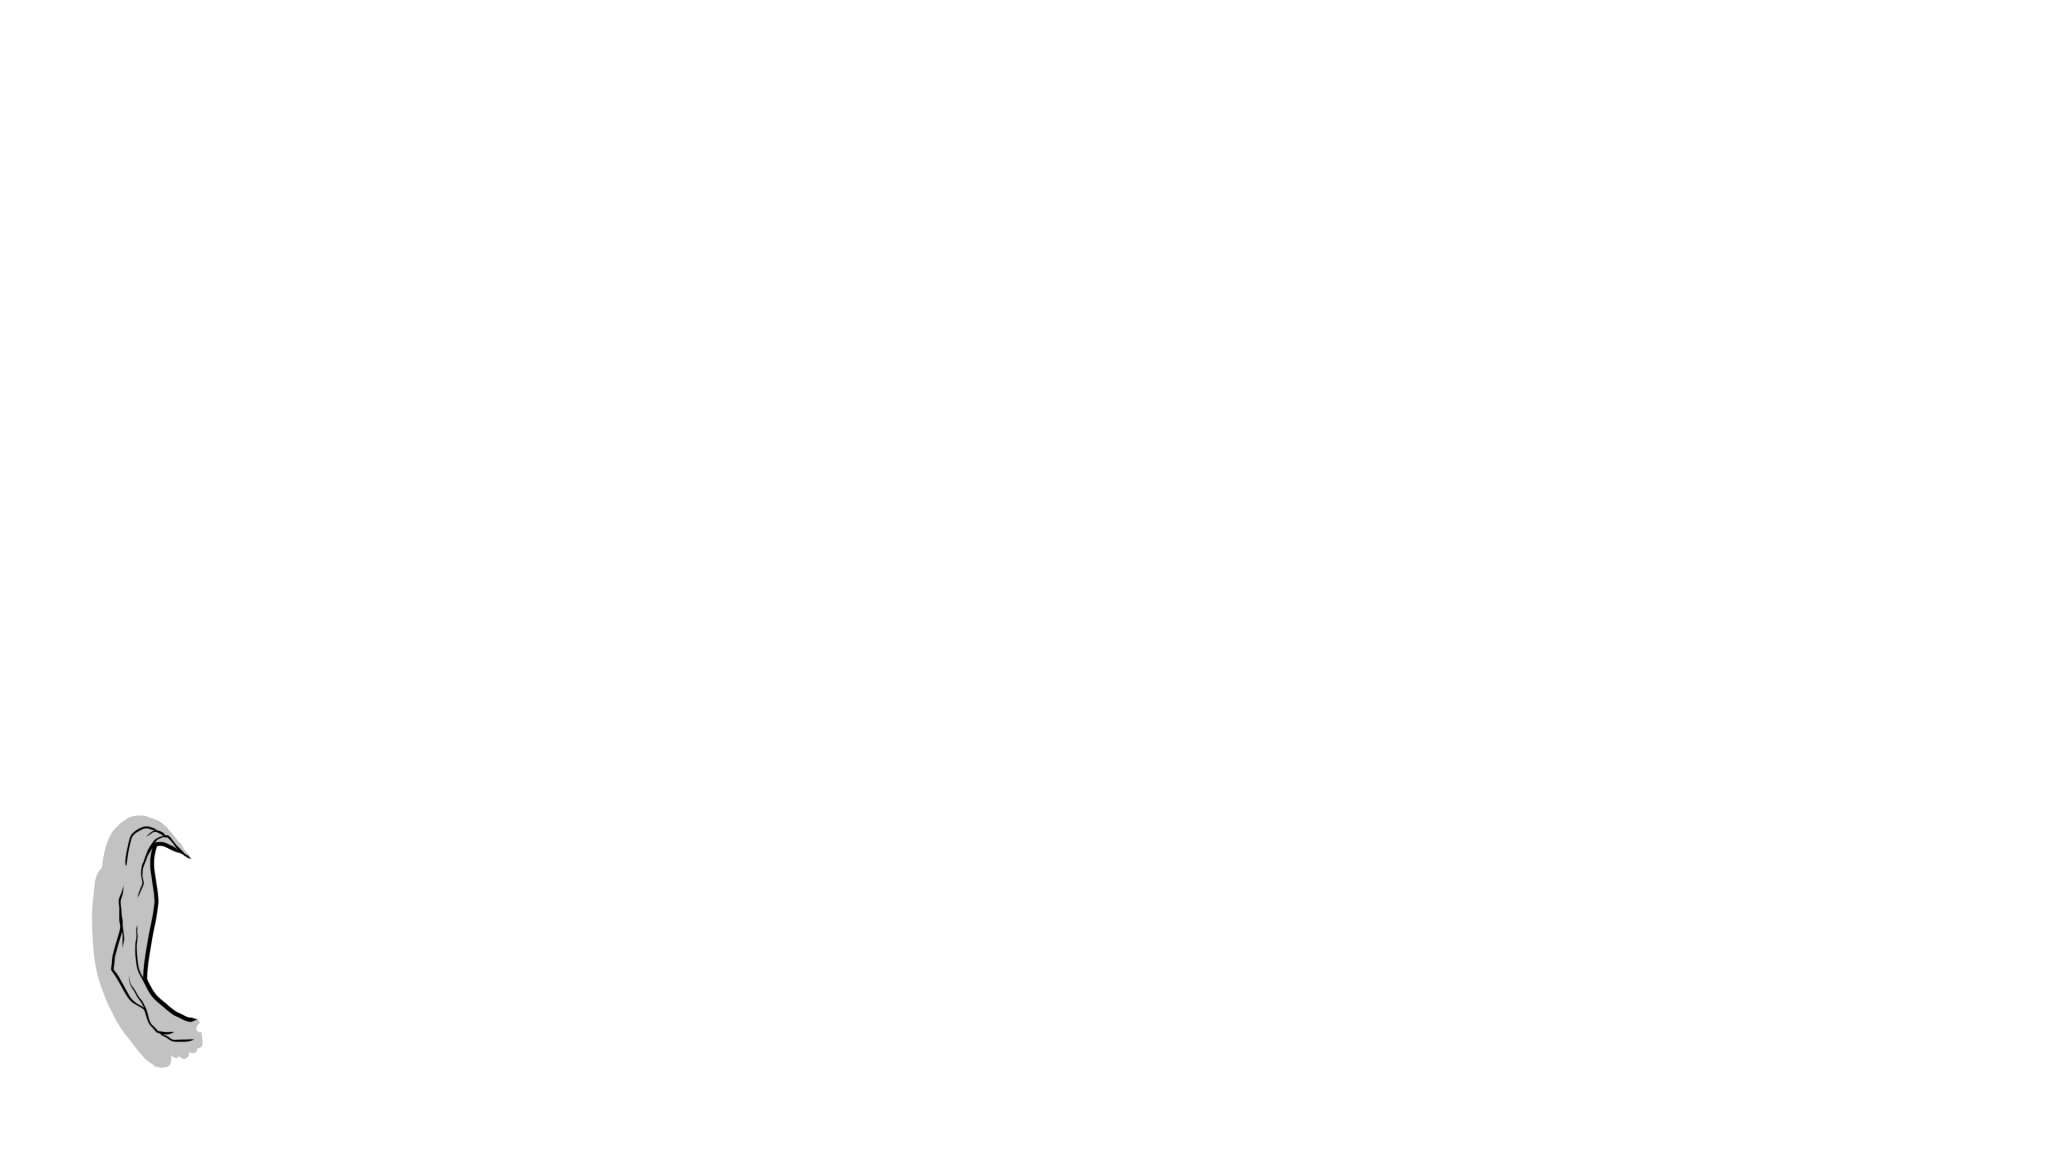
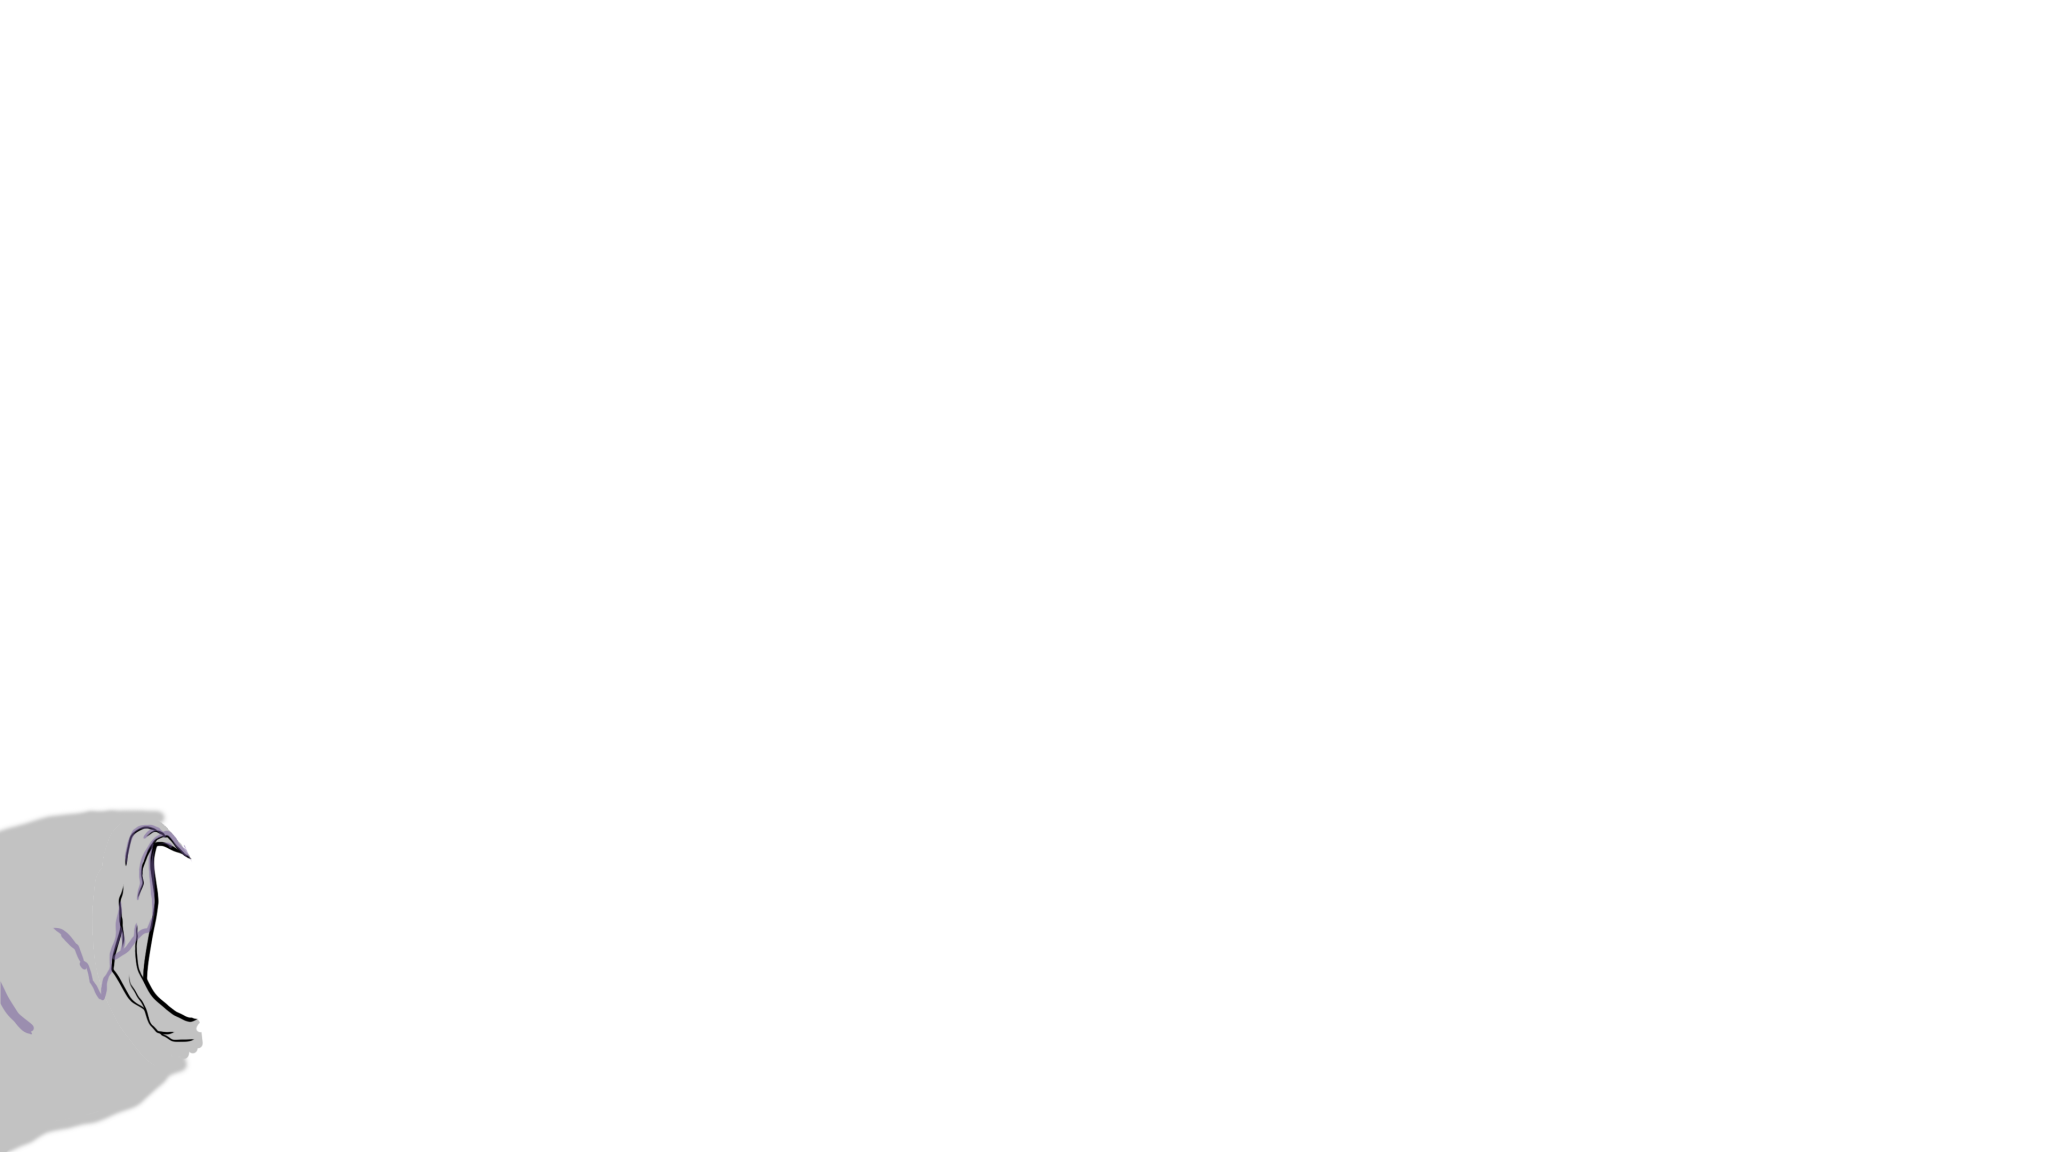
add animated eel

Changed region(s): [[0.0, 0.6875, 0.0938, 1.0]]

diff --git a/src/main.js b/src/main.js
@@ -41,6 +41,48 @@ const globalConfig = {
 	cameraFar: 40,
 }
 
+const eelImageSrc = [
+	require(`./eel/eel_1.png`),
+	require(`./eel/eel_2.png`),
+	require(`./eel/eel_3.png`),
+	require(`./eel/eel_4.png`),
+	require(`./eel/eel_5.png`),
+	require(`./eel/eel_6.png`),
+	require(`./eel/eel_7.png`),
+	require(`./eel/eel_8.png`),
+	require(`./eel/eel_9.png`),
+	require(`./eel/eel_10.png`),
+	require(`./eel/eel_11.png`),
+	require(`./eel/eel_12.png`),
+	require(`./eel/eel_13.png`),
+	require(`./eel/eel_14.png`),
+	require(`./eel/eel_15.png`),
+	require(`./eel/eel_16.png`),
+	require(`./eel/eel_17.png`),
+	require(`./eel/eel_18.png`),
+	require(`./eel/eel_19.png`),
+	require(`./eel/eel_20.png`),
+];
+
+const eelImages = new Array(20);
+for (let index = 0; index < eelImages.length; index++) {
+	eelImages[index] = new Image();
+	/*eelImages[index].addEventListener('load', ()=>{
+		if (eelCanvas.height < eelImages[index].height) eelCanvas.height = Math.max(eelCanvas.height, eelImages[index].height);
+		if (eelCanvas.width < eelImages[index].width) eelCanvas.width = Math.max(eelCanvas.width, eelImages[index].width);
+	});*/
+	eelImages[index].src = eelImageSrc[index];
+}
+const eelCanvas = document.createElement('canvas');
+eelCanvas.height = 500;
+eelCanvas.width = 1500;
+const eelCtx = eelCanvas.getContext('2d');
+const eelFPS = 12;
+let lastEelFrame = Date.now();
+let currentEelFrame = 0;
+const eelTexture = new THREE.CanvasTexture(eelCanvas);
+globalConfig.eelTexture = eelTexture;
+
 const plane_geometry = new THREE.PlaneBufferGeometry(globalConfig.emoteScale, globalConfig.emoteScale);
 
 const fragmentShader = require('./fragmentShader.js');
@@ -106,7 +148,7 @@ window.addEventListener('DOMContentLoaded', () => {
 	updateBubbleTemplate();
 
 	const createBubble = () => {
-		if (Math.random() > 0.9 || bt.spawns > 12) {
+		if (Math.random() > 0.5 || bt.spawns > 48) {
 			updateBubbleTemplate();
 		}
 		const bubble = new THREE.Mesh(bubble_geometry, bubble_material);
@@ -164,6 +206,19 @@ window.addEventListener('DOMContentLoaded', () => {
 	let lastFrame = Date.now();
 	function draw() {
 		requestAnimationFrame(draw);
+
+		const eelTimeDiff = Date.now() - lastEelFrame;
+		if (eelTimeDiff > 1000/eelFPS) {
+			lastEelFrame = Date.now();
+			currentEelFrame += Math.floor(eelTimeDiff/(1000/eelFPS));
+			if (currentEelFrame >= eelImages.length) {
+				currentEelFrame -= eelImages.length;
+			}
+			
+			eelCtx.clearRect(0, 0, eelCanvas.width, eelCanvas.height);
+			eelCtx.drawImage(eelImages[currentEelFrame], 0, 0);
+			eelTexture.needsUpdate = true;
+		}
 
 		for (const key in emoteTextures) {
 			if (emoteTextures.hasOwnProperty(key)) {

diff --git a/src/environment.js b/src/environment.js
@@ -16,7 +16,10 @@ const newPlaneImage = (url, options = {}) => {
 	}, options);
 	const mesh = new THREE.Mesh(
 		planeGeometry,
-		new THREE.MeshBasicMaterial({
+		(typeof url !== "string") ? new THREE.MeshBasicMaterial({
+			map: url,
+			transparent: true,
+		}) : new THREE.MeshBasicMaterial({
 			map: new THREE.TextureLoader().load(url),
 			transparent: true,
 		})
@@ -32,7 +35,7 @@ const newPlaneImage = (url, options = {}) => {
 
 module.exports = (scene, globalConfig) => {
 	scene.background = new THREE.Color(0x167BFF);
-	scene.fog = new THREE.Fog(0x167BFF, globalConfig.cameraDistance / 4, globalConfig.cameraDistance*1.25);
+	scene.fog = new THREE.Fog(0x167BFF, globalConfig.cameraDistance / 4, globalConfig.cameraDistance * 1.25);
 
 
 	const ambiLight = new THREE.AmbientLight(0x222222);
@@ -61,35 +64,54 @@ module.exports = (scene, globalConfig) => {
 		zpos: 27,
 		scale: 11.2,
 	});
-	layer1.position.z -= (layerOffset*0);
+	layer1.position.z -= (layerOffset * 0);
 	scene.add(layer1);
-	
-	const layer2 = newPlaneImage(layerimages[1], {
-		zpos: 19,
-		scale: 22.45,
-	});
-	layer2.position.z -= (layerOffset*1);
-	scene.add(layer2);
-	
+
 	const layer3 = newPlaneImage(layerimages[2], {
 		zpos: 19,
 		scale: 22.45,
 	});
-	layer3.position.z -= (layerOffset*2);
+	layer3.position.z -= (layerOffset * 1);
 	scene.add(layer3);
-	
+
+	const eelTextureMax = Math.max(
+		globalConfig.eelTexture.image.width,
+		globalConfig.eelTexture.image.height
+	)
+	const eelLayer = new THREE.Mesh(
+		new THREE.PlaneBufferGeometry(globalConfig.eelTexture.image.width / eelTextureMax, globalConfig.eelTexture.image.height / eelTextureMax),
+		new THREE.MeshBasicMaterial({
+			map: globalConfig.eelTexture,
+			transparent: true,
+		})
+	)
+	eelLayer.scale.x = 10;
+	eelLayer.scale.y = 10;
+	eelLayer.position.x = -14;
+	eelLayer.position.y = -7.25;
+	eelLayer.position.z = 19;
+	eelLayer.position.z -= (layerOffset * 2);
+	scene.add(eelLayer);
+
+	const layer2 = newPlaneImage(layerimages[1], {
+		zpos: 19,
+		scale: 22.45,
+	});
+	layer2.position.z -= (layerOffset * 3);
+	scene.add(layer2);
+
 	const layer4 = newPlaneImage(layerimages[3], {
 		zpos: 19,
 		scale: 22.45,
 	});
-	layer4.position.z -= (layerOffset*3);
+	layer4.position.z -= (layerOffset * 4);
 	scene.add(layer4);
-	
+
 	const layer5 = newPlaneImage(layerimages[4], {
 		zpos: 10,
 		scale: 35,
 	});
-	layer5.position.z -= (layerOffset*4);
+	layer5.position.z -= (layerOffset * 4);
 	scene.add(layer5);
 
 	/*for (let x = 0; x < 10; x++) {

diff --git a/src/main.scss b/src/main.scss
@@ -3,7 +3,7 @@ body, html, canvas {
     padding: 0;
     width: 100%;
     height: 100%;
-    background: #0000cc;
+    background: #000000;
     color: white;
     overflow: hidden;
 }
